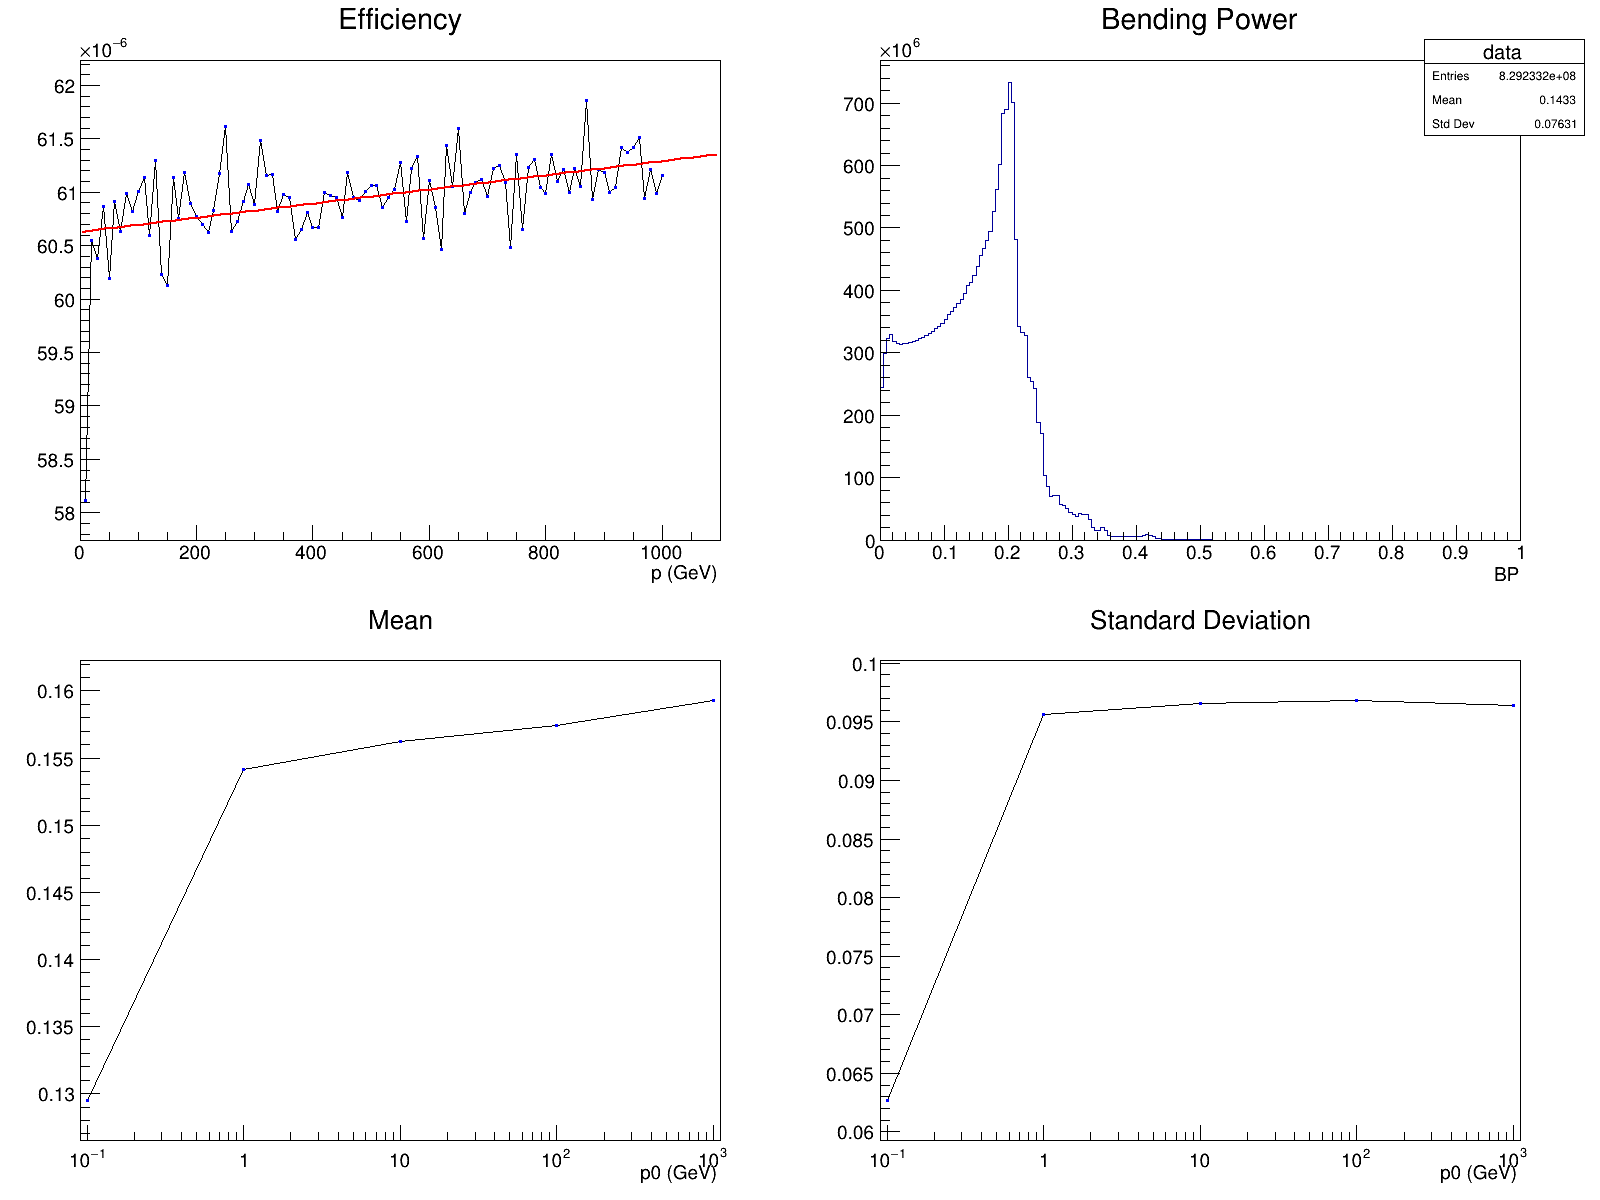
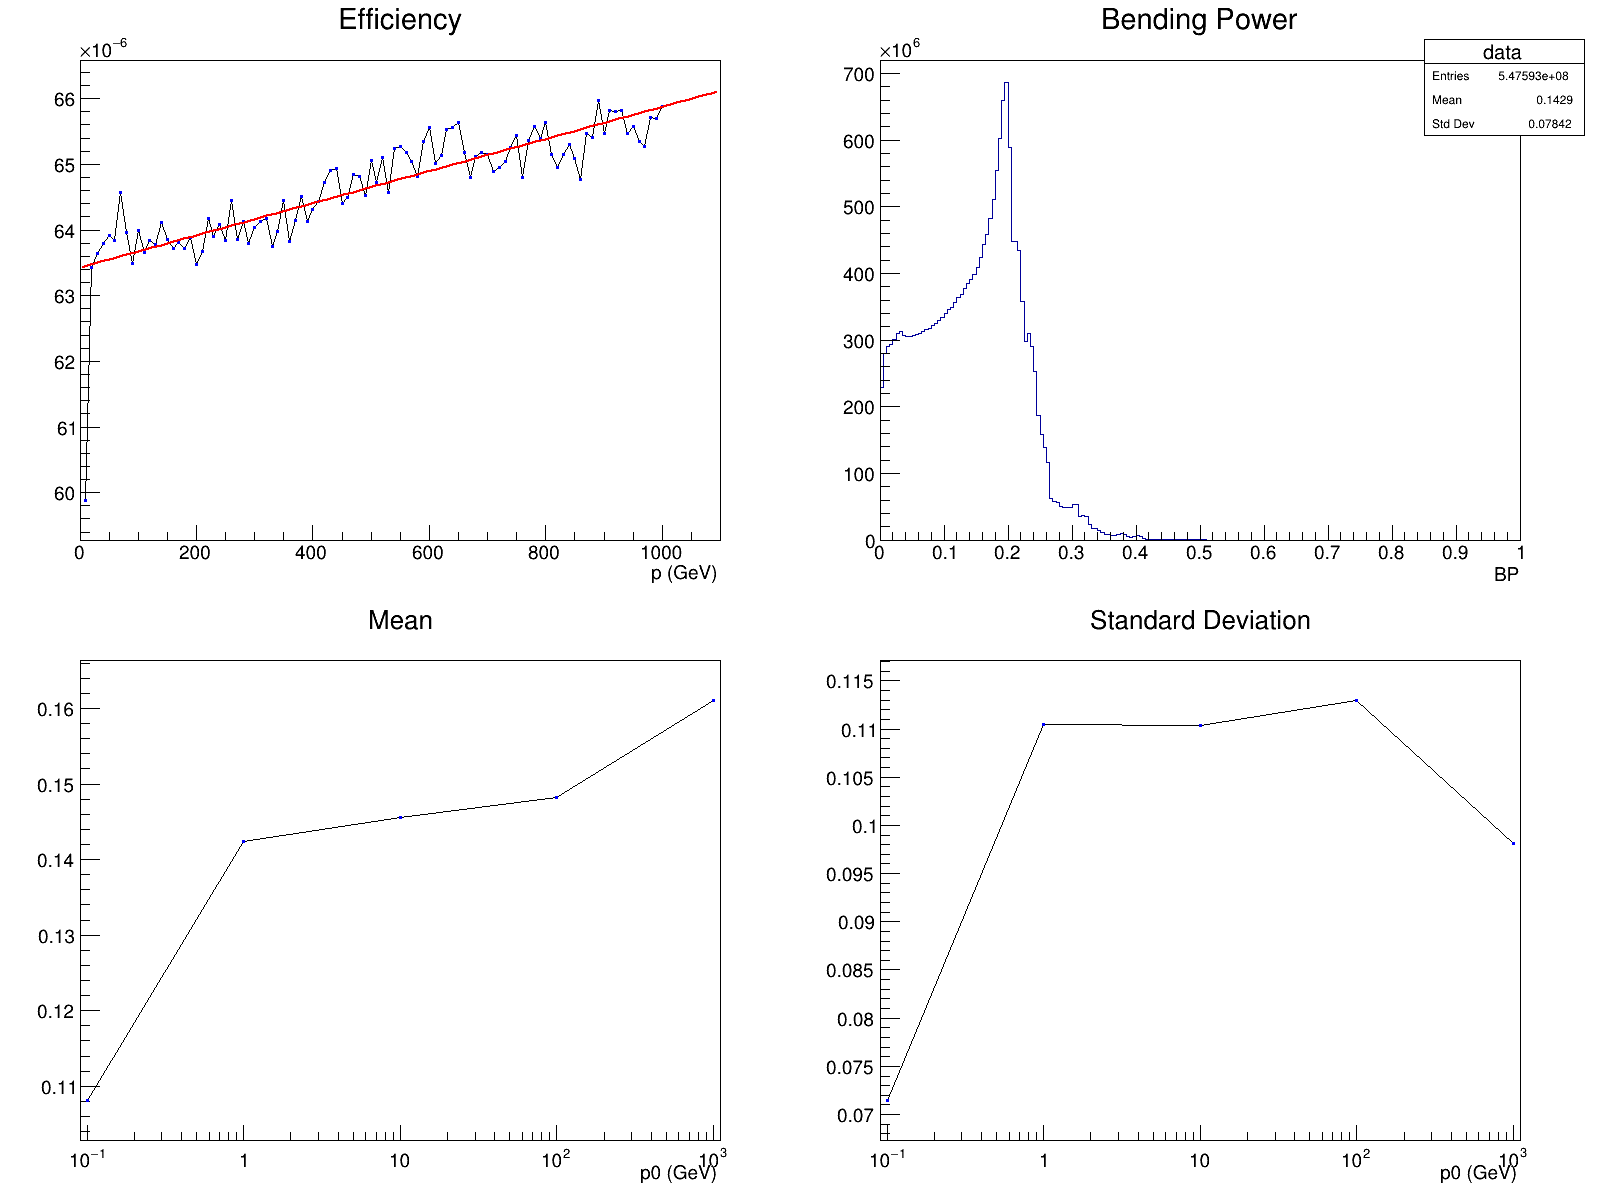
adding multithreading

diff --git a/src/beam.cpp b/src/beam.cpp
@@ -12,24 +12,25 @@ void generate_particles(unsigned short int n, int N, int *efficiency, TH1 *h1)
   // Initial momentum distribution
   int power = -3;
 
-  // Defining the magnetic field's components
-  double Bx = 0, By = 0.3, Bz = 0;
-
-  // Particle beam properties
-  double modv, phi, costh, vx, vy, vz, x, y, z;
-
-  // Every particle will be associated to the extremes of its path inside the detector
-  double ax, ay, az, bx, by, bz;
-
-  // Final values to eval
-  double bending_power;
-  double p0;
-
   double square_size = 3.9;
   double cylinder_base_z = 1.95;
 
   TRandom3 *rg = new TRandom3(0);
+  
+  #pragma omp parallel for
   for (int i = 0; i < N; i++) {
+    // Defining the magnetic field's components
+    double Bx = 0, By = 0.3, Bz = 0;
+
+    // Particle beam properties
+    double modv, phi, costh, vx, vy, vz, x, y, z;
+
+    // Every particle will be associated to the extremes of its path inside the detector
+    double ax, ay, az, bx, by, bz;
+
+    // Final values to eval
+    double bending_power;
+    double p0;
     // Generating initial particle position
     x = rg->Uniform(-square_size, square_size);
     y = rg->Uniform(-square_size, square_size);

diff --git a/src/header.h b/src/header.h
@@ -7,9 +7,8 @@
 #include <TApplication.h>
 #include <TFile.h>
 #include <cmath>
-#include <ctime>
-#include <algorithm>
 #include "TRandom3.h"
+#include <omp.h>
 
 #define h 0.001 // Resolution used to resolve the differential equations
 #define eff_dist_steps 100

diff --git a/src/main.cpp b/src/main.cpp
@@ -7,7 +7,6 @@ int main(int argc, char **argvw)
   const int iter_N = 10000; // Iterations of the simulation
 
   int efficiency[eff_dist_steps] = {};
-  // bool pass[N];
   unsigned short int init_momentum = 0;
 
   // Filling the Bending Power histogram
